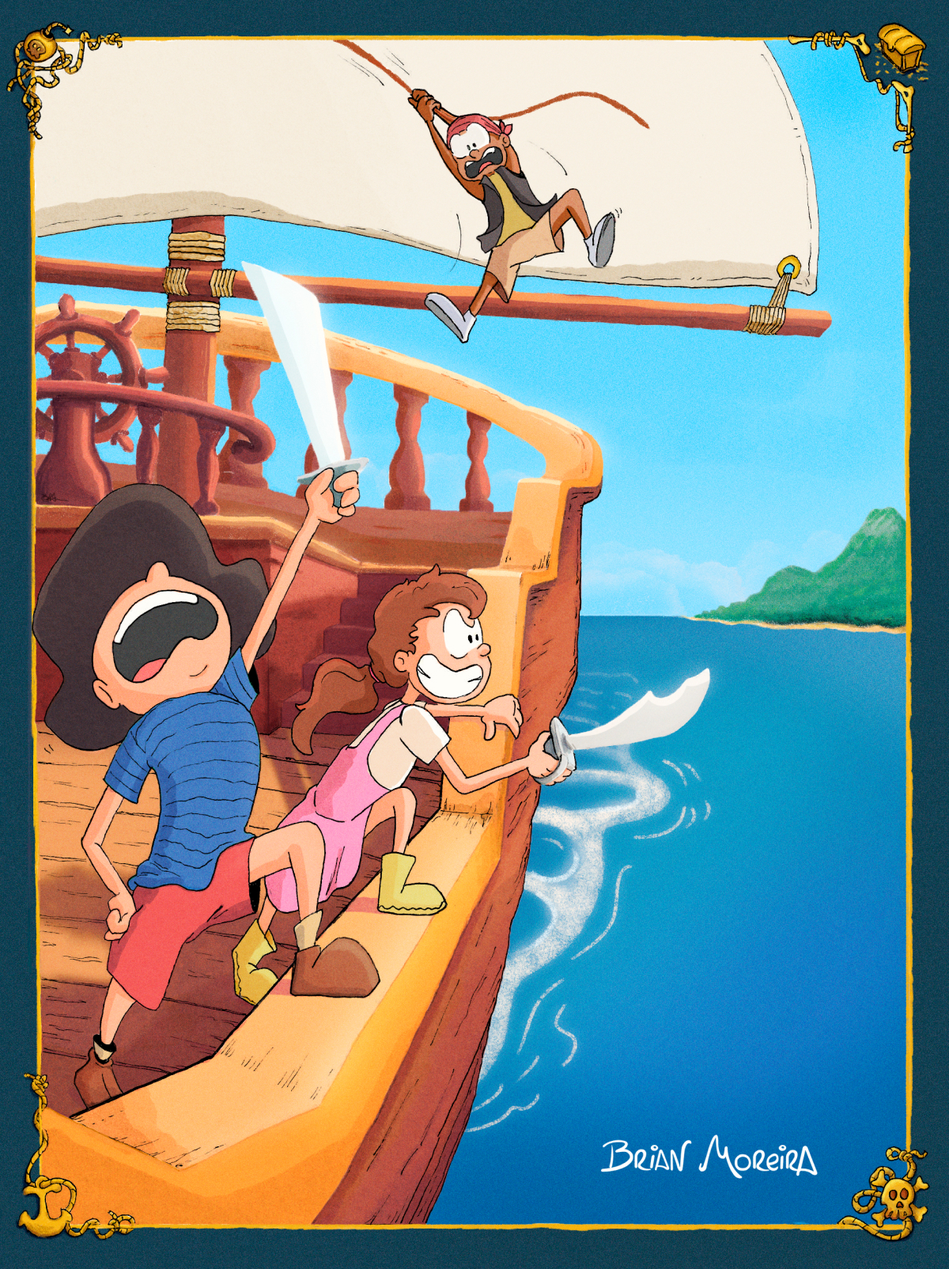
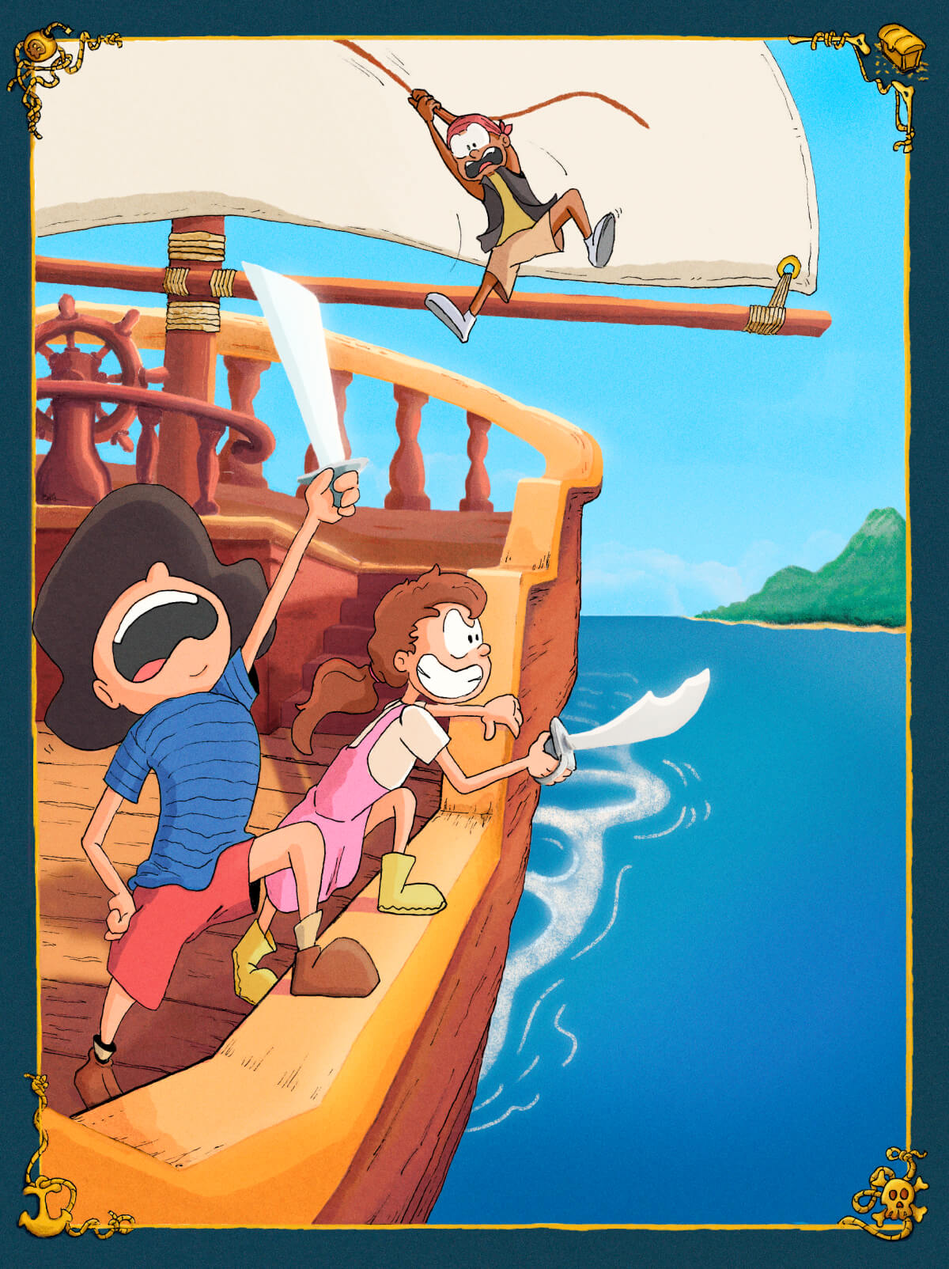
Muda link do Substack para o perfil ao invés do blog

diff --git a/index.html b/index.html
@@ -133,7 +133,7 @@
 							<div class="content flex">
 								<div class="social-wrap flex">
 									<div class="social flex">
-										<a href="https://brianmoreira.substack.com/" target="_blank"><img src="images/icons/substack.png" alt="Substack"></a>
+										<a href="https://substack.com/@brianmoreira" target="_blank"><img src="images/icons/substack.png" alt="Substack"></a>
 										<a href="https://www.behance.net/brianmoreirart" target="_blank"><img src="images/icons/behance.svg" alt="Behance"></a>
 										<a href="https://www.linkedin.com/in/brianmoreira/" target="_blank"><img src="images/icons/linkedin.svg" alt="LinkedIn"></a>
 										<!-- <a href="https://substack.com/@brianmoreira" target="_blank"><img src="images/icons/substack.png" alt="Substack"></a> -->

diff --git a/footer.html b/footer.html
@@ -5,7 +5,7 @@
 				<div class="content flex">
 					<div class="social-wrap flex">
 						<div class="social flex">
-							<a href="https://brianmoreira.substack.com/" target="_blank"><img src="../images/icons/substack.png" alt="Substack"></a>
+							<a href="https://substack.com/@brianmoreira" target="_blank"><img src="../images/icons/substack.png" alt="Substack"></a>
 							<a href="https://www.behance.net/brianmoreirart" target="_blank"><img src="../images/icons/behance.svg" alt="Behance"></a>
 							<a href="https://www.linkedin.com/in/brianmoreira/" target="_blank"><img src="../images/icons/linkedin.svg" alt="LinkedIn"></a>
 							<!-- <a href="https://substack.com/@brianmoreira" target="_blank"><img src="../images/icons/substack.png" alt="Substack"></a> -->
